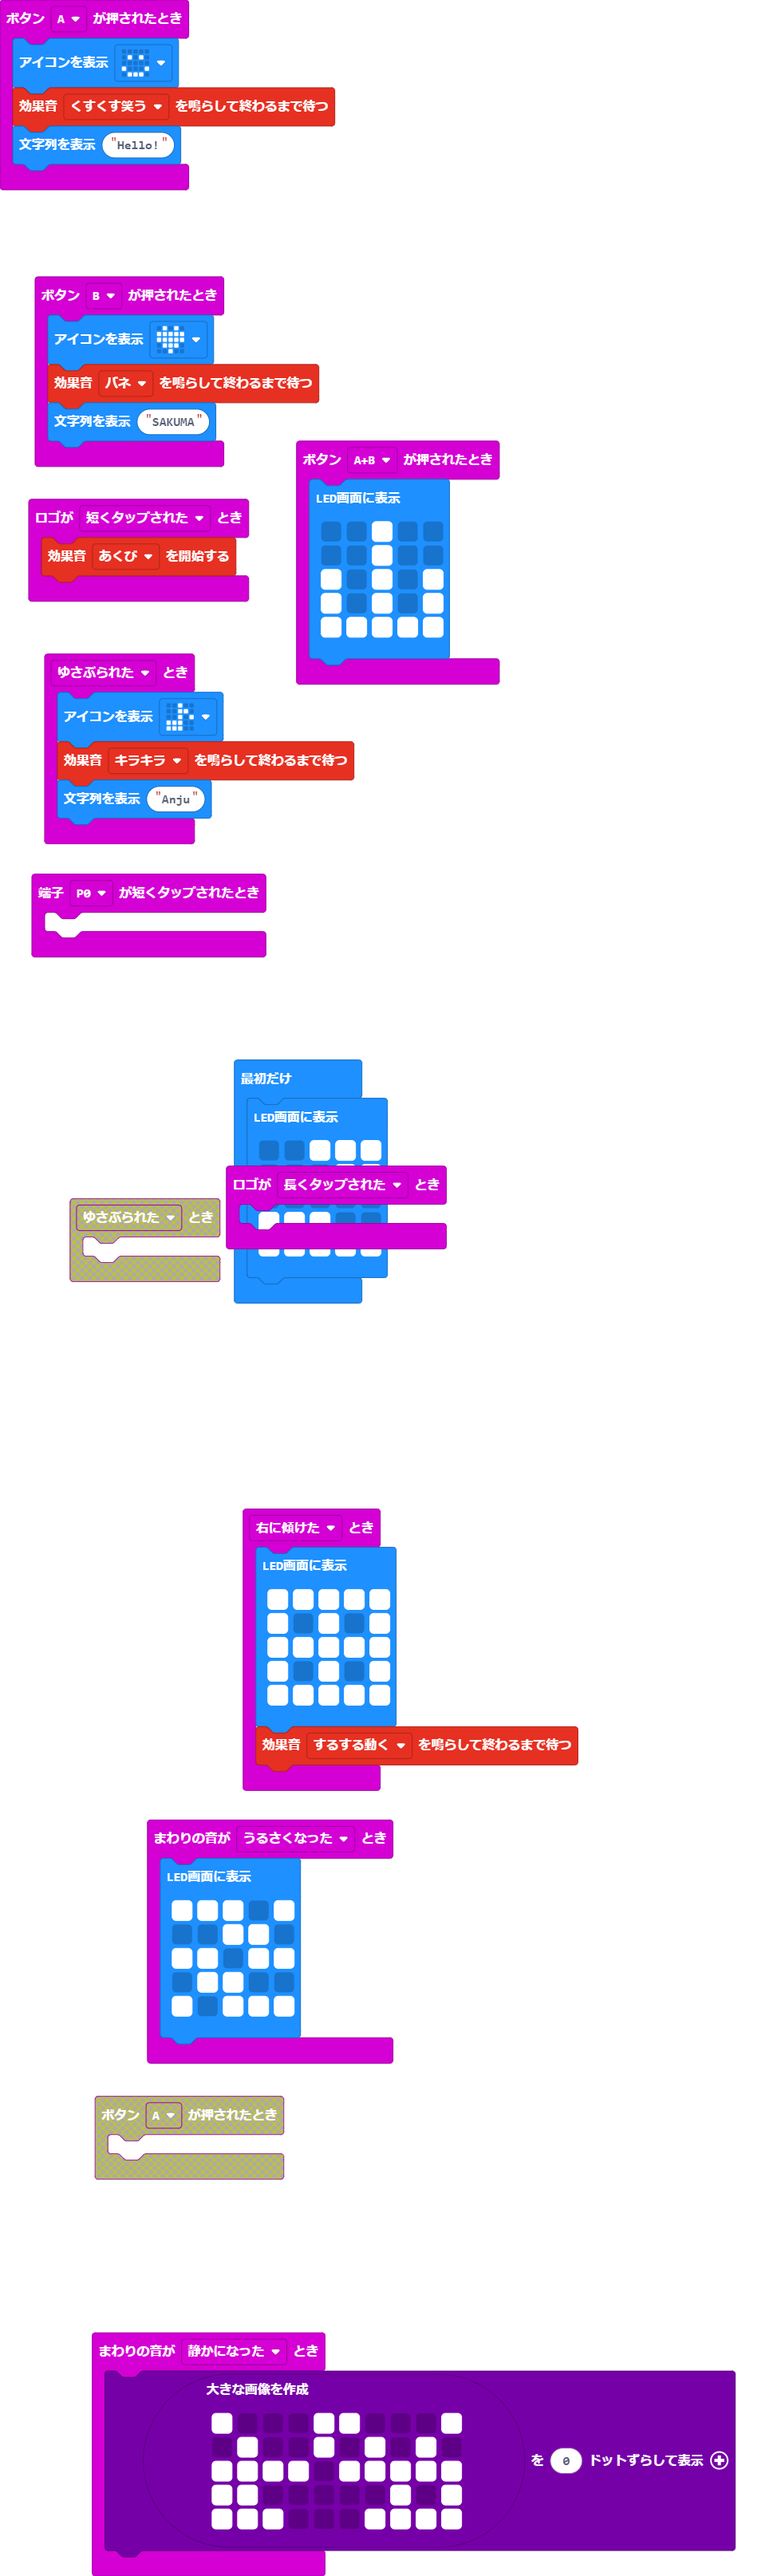
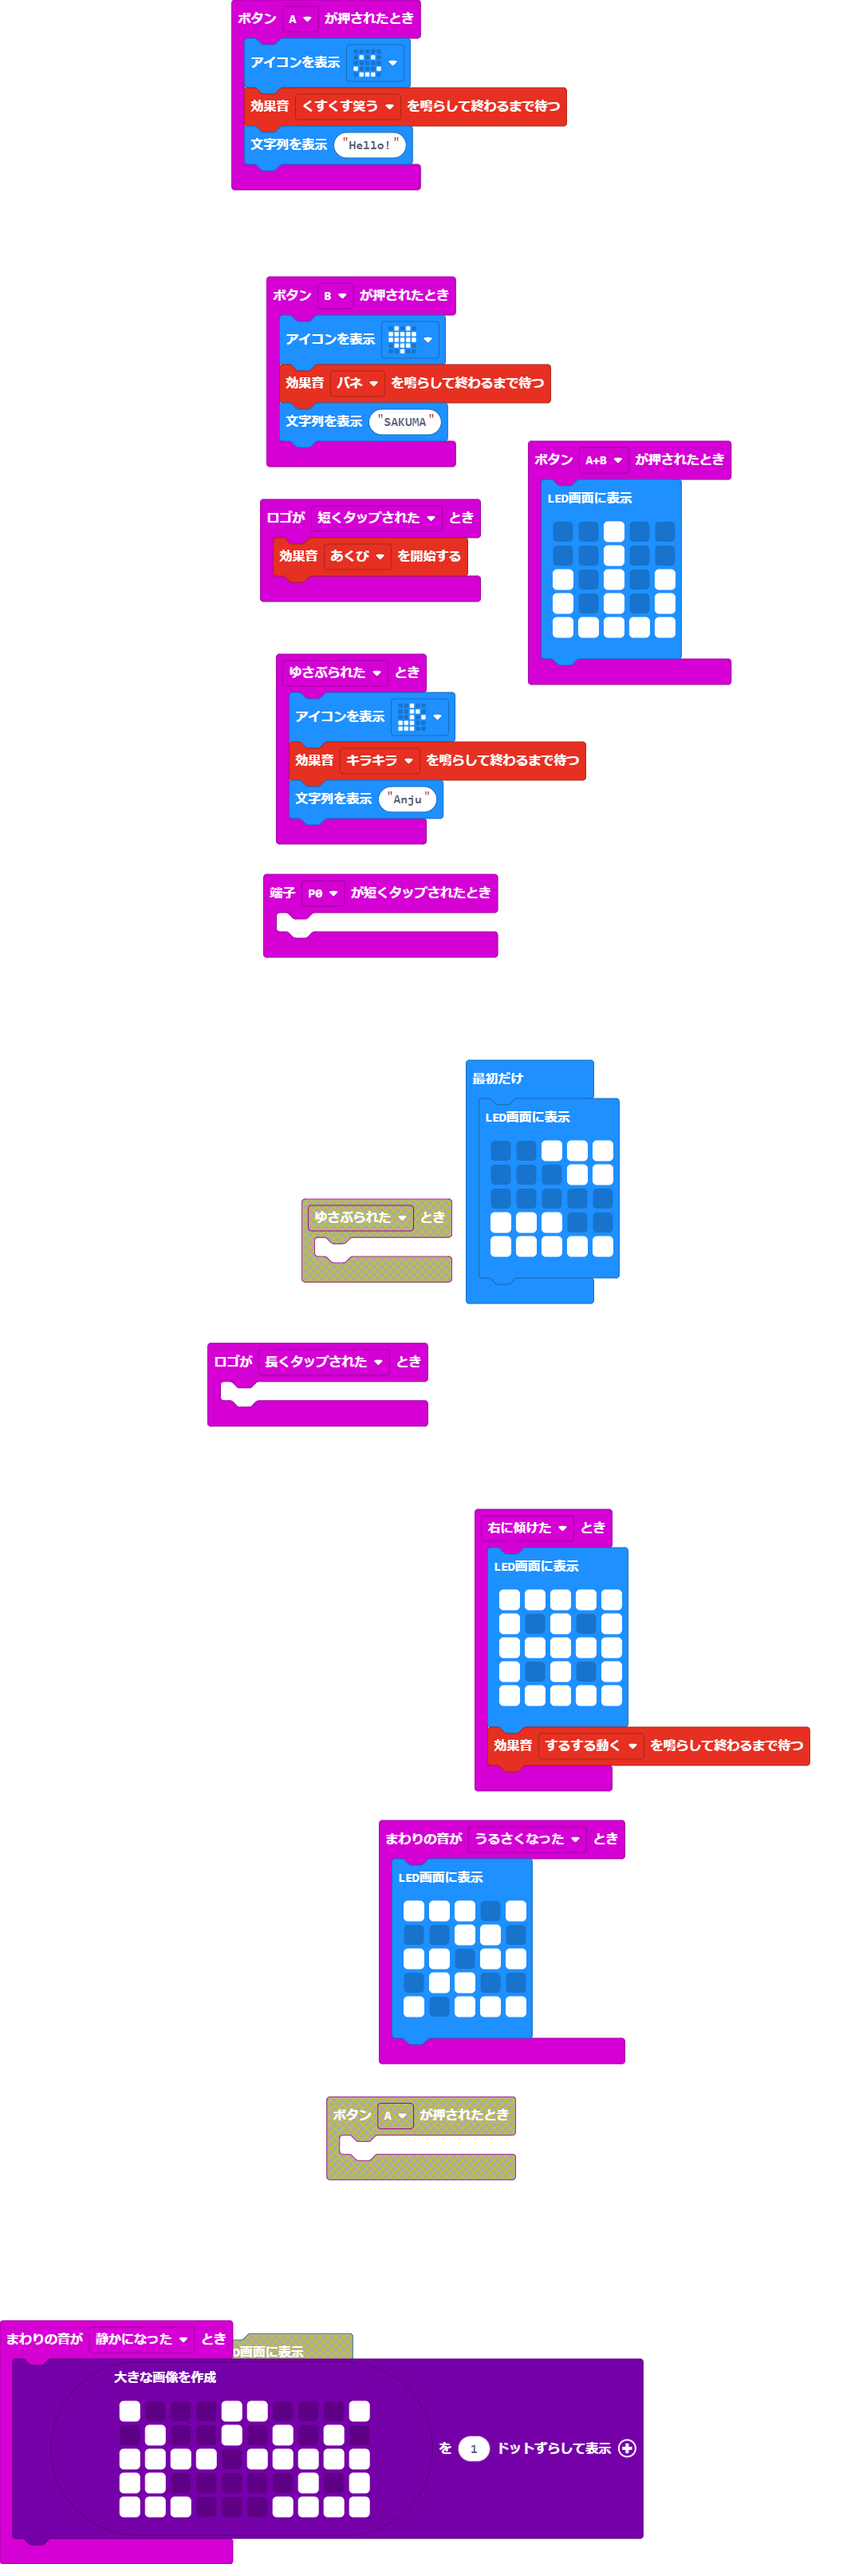
更新 main.blocks, main.ts

diff --git a/main.ts b/main.ts
@@ -8,7 +8,7 @@ input.onSound(DetectedSound.Quiet, function () {
         # # # # . # # # # #
         # # . . . . . # . #
         # # # . . . # # # #
-        `).showImage(0)
+        `).showImage(1)
 })
 input.onLogoEvent(TouchButtonEvent.LongPressed, function () {
 	
